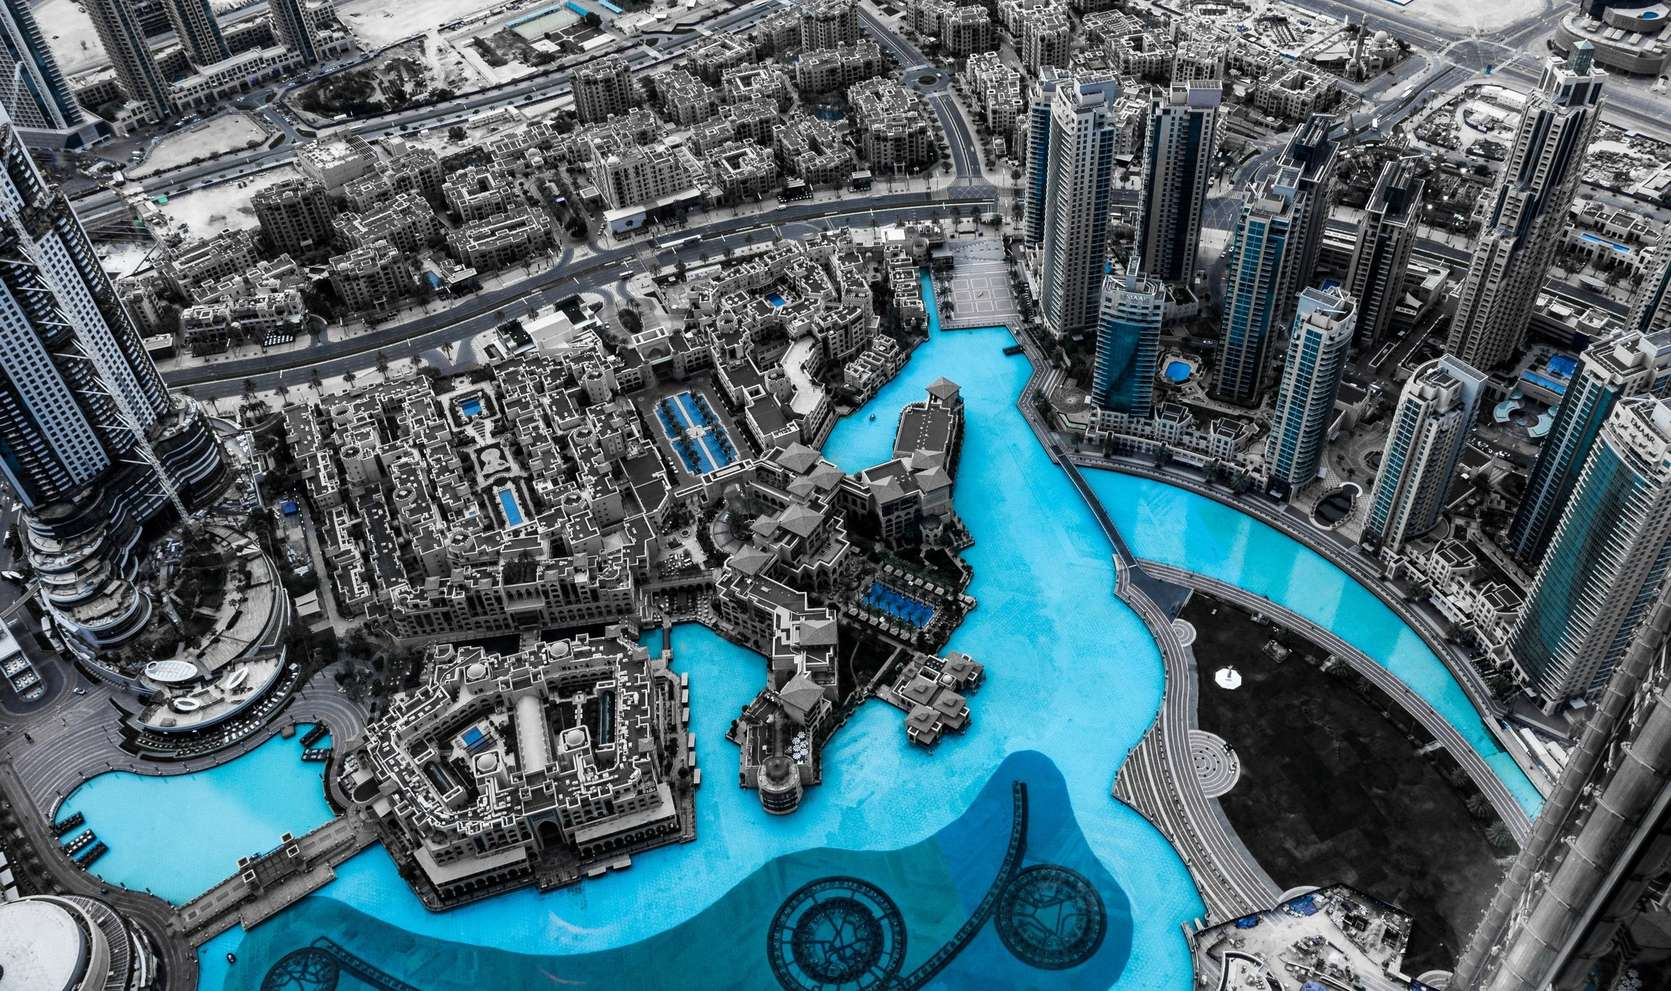
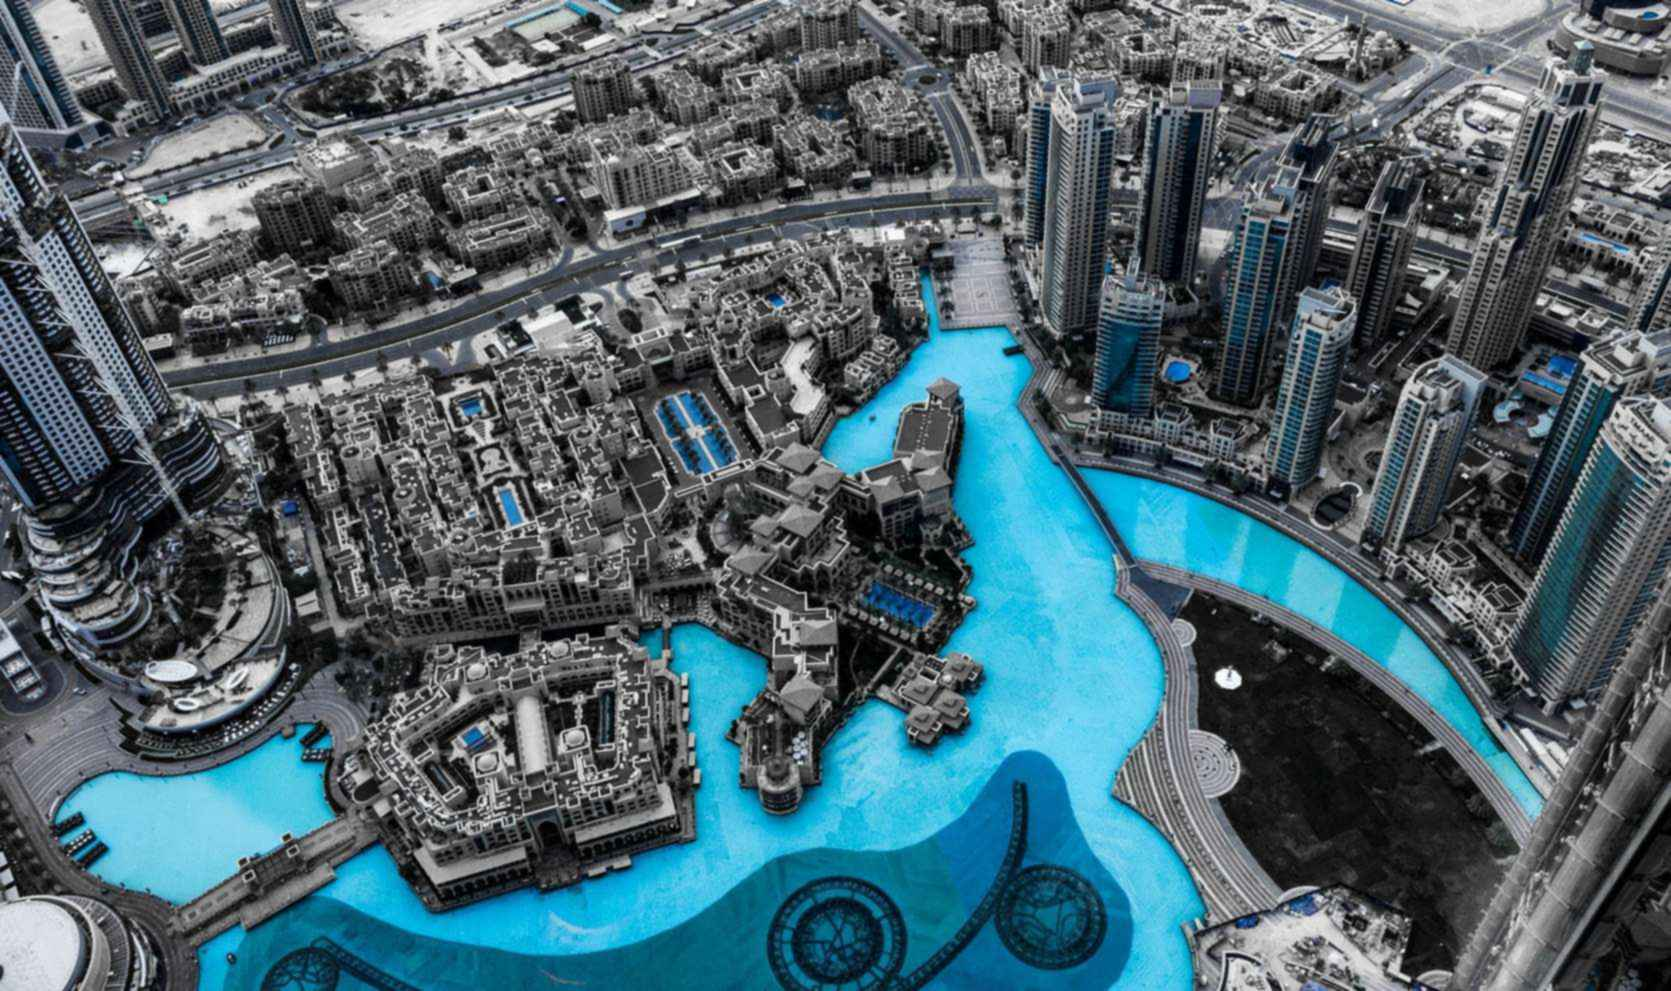
make photos smaller - update about_gary - remove data-science - add applications

diff --git a/categories/applications/index.html b/categories/applications/index.html
@@ -1,6 +1,5 @@
-<!DOCTYPE HTML>
 <html>
-
+<!-- Header -->
     <head>
 	<meta charset="utf-8" />
 	<meta http-equiv="X-UA-Compatible" content="IE=edge">
@@ -8,7 +7,7 @@
 	<meta name="description" content="Intelligent Autonomy">
 	<meta name="author" content="Gary Dalton">
 	<meta name="generator" content="Hugo 0.38.2" />
-	<title>Deep Learning &middot; Intellamech</title>
+	<title>Applications &middot; Intellamech</title>
 	<!-- Stylesheets -->
 	
 	<link rel="stylesheet" href="http://www.intellamech.com/css/main.css"/>
@@ -32,12 +31,13 @@
 	<script src="js/ie/html5shiv.jsrespond.min.js"></script>
 	<![endif]-->
 </head>
+
     <body>
 
     <!-- Wrapper -->
         <div id="wrapper">
 
-            <!-- Header -->
+        <!-- Header -->
     <header id="header" class="alt">
         <a href="http://www.intellamech.com" class="logo"><strong>Intellamech</strong> <span>Intelligent Autonomous Mechatronics</span></a>
         <nav>
@@ -72,28 +72,45 @@
     </nav>
 
         <!-- Main -->
-            <div id="main" class="alt">
+            <div id="main">
 
-                
-                    <section id="one">
-                        <div class="inner">
-                            <header class="major">
-                                <h1>Deep Learning</h1>
-                            </header>
+                <section id="banner" class="style2">
+                    <div class="inner">
+			
+                        <header class="major">
+                            <h1>Applications</h1>
+                        </header>
+                        <div class="content">
                             
-                            <p>Some words</p>
+                        </div>
+                    </div>
+                </section>
 
+                <section id="two" class="spotlights">
+                    
+                    <section>
+                        <a href="/posts/applications/" class="image">
+							<img src="/img/posts/" alt="" data-position="center center" />
+						</a>
+                        <div class="content">
+                            <div class="inner">
+                                <header class="major">
+                                    <h3>Applications</h3>
+                                </header>
+                                <p>Internet, Android, and hardware applications</p>
+                                <ul class="actions">
+                                    <li><a href="/posts/applications/" class="button">Learn more</a></li>
+                                </ul>
+                            </div>
                         </div>
                     </section>
-            <!-- Disqus Inject -->
-                
                     
-                
+                </section>
             </div>
             
         <!-- Footer -->
-            
-                <!-- Footer -->
+			
+				<!-- Footer -->
     <footer id="footer">
         <div class="inner">
             <ul class="icons">
@@ -119,6 +136,7 @@
     </footer>
 
             
+        
         </div>
 
     <!-- Scripts -->
@@ -145,6 +163,6 @@ ga('send', 'pageview');
 
 
     
-
+        
     </body>
 </html>

diff --git a/categories/index.html b/categories/index.html
@@ -53,7 +53,7 @@
             
                 <li><a href="http://www.intellamech.com/posts/deep">Deep Learning</a></li>
             
-                <li><a href="http://www.intellamech.com/posts/datascience">Data Science</a></li>
+                <li><a href="http://www.intellamech.com/posts/applications">Applications</a></li>
             
                 <li><a href="http://www.intellamech.com/posts/maker">Maker</a></li>
             
@@ -106,6 +106,23 @@
                     </section>
                     
                     <section>
+                        <a href="/categories/applications/" class="image">
+							<img src="/img/categories/" alt="" data-position="center center" />
+						</a>
+                        <div class="content">
+                            <div class="inner">
+                                <header class="major">
+                                    <h3>Applications</h3>
+                                </header>
+                                <p></p>
+                                <ul class="actions">
+                                    <li><a href="/categories/applications/" class="button">Learn more</a></li>
+                                </ul>
+                            </div>
+                        </div>
+                    </section>
+                    
+                    <section>
                         <a href="/categories/data-science/" class="image">
 							<img src="/img/categories/" alt="" data-position="center center" />
 						</a>
@@ -117,23 +134,6 @@
                                 <p></p>
                                 <ul class="actions">
                                     <li><a href="/categories/data-science/" class="button">Learn more</a></li>
-                                </ul>
-                            </div>
-                        </div>
-                    </section>
-                    
-                    <section>
-                        <a href="/categories/datascience/" class="image">
-							<img src="/img/categories/" alt="" data-position="center center" />
-						</a>
-                        <div class="content">
-                            <div class="inner">
-                                <header class="major">
-                                    <h3>Datascience</h3>
-                                </header>
-                                <p></p>
-                                <ul class="actions">
-                                    <li><a href="/categories/datascience/" class="button">Learn more</a></li>
                                 </ul>
                             </div>
                         </div>

diff --git a/index.html b/index.html
@@ -53,7 +53,7 @@
             
                 <li><a href="http://www.intellamech.com/posts/deep">Deep Learning</a></li>
             
-                <li><a href="http://www.intellamech.com/posts/datascience">Data Science</a></li>
+                <li><a href="http://www.intellamech.com/posts/applications">Applications</a></li>
             
                 <li><a href="http://www.intellamech.com/posts/maker">Maker</a></li>
             
@@ -95,11 +95,11 @@
         
         <article>
             <span class="image">
-                <img src="img/8516817076_8d941b84cb_o.png" alt="" />
+                <img src="img/8516817076_8d941b84cb_o.jpg" alt="" />
             </span>
             <header class="major">
                 <h3><a href="http://www.intellamech.com/posts/deep" class="link">Deep Learning</a></h3>
-                <p>Deep Learning</p>
+                <p>Deep Learning and Data Science</p>
             </header>
         </article>
         
@@ -108,8 +108,8 @@
                 <img src="img/pic02.jpg" alt="" />
             </span>
             <header class="major">
-                <h3><a href="http://www.intellamech.com/posts/datascience" class="link">Data Science</a></h3>
-                <p>Analysis of data and applications</p>
+                <h3><a href="http://www.intellamech.com/posts/applications" class="link">Applications</a></h3>
+                <p>Internet, Android, and hardware applications</p>
             </header>
         </article>
         
@@ -125,7 +125,7 @@
         
         <article>
             <span class="image">
-                <img src="img/8281120065_2b8c6b2b0b_o.png" alt="" />
+                <img src="img/8281120065_2b8c6b2b0b_o.jpg" alt="" />
             </span>
             <header class="major">
                 <h3><a href="http://www.intellamech.com/posts/other" class="link">Other</a></h3>
@@ -145,7 +145,7 @@
         
         <article>
             <span class="image">
-                <img src="img/chainsawm.png" alt="" />
+                <img src="img/chainsawm.jpg" alt="" />
             </span>
             <header class="major">
                 <h3><a href="http://www.intellamech.com/posts/about_gary" class="link">About</a></h3>

diff --git a/posts/about_gary/index.html b/posts/about_gary/index.html
@@ -53,7 +53,7 @@
             
                 <li><a href="http://www.intellamech.com/posts/deep">Deep Learning</a></li>
             
-                <li><a href="http://www.intellamech.com/posts/datascience">Data Science</a></li>
+                <li><a href="http://www.intellamech.com/posts/applications">Applications</a></li>
             
                 <li><a href="http://www.intellamech.com/posts/maker">Maker</a></li>
             
@@ -83,7 +83,22 @@
                             
                                 <span class="image main"><img src="/img/posts/https://avatars0.githubusercontent.com/u/7538298?v=3&amp;s=460" alt="" /></span>
                             
-                            <p>I have been coding for many years, mostly in the scientific programming arena. My currently preferred language is Python.</p>
+                            
+
+<h2 id="focus-on-implementing-secure-algorithmic-intelligence-to-create-value">Focus on implementing secure algorithmic intelligence to create value</h2>
+
+<p>I worked for many years as an ISP, and full spectrum application design consultant. During this time, I also got involved with some non-profit organizations and went on to leadership positions in them. Since 2015, I have wound down my involvement in the non-profit world, slowly divested ISP services, and vastly improved my machine learning, computer vision, and mechatronic control skills. It is time to take things to the next level.</p>
+
+<p>Specialties:</p>
+
+<ul>
+<li>Machine Learning and Deep Learning</li>
+<li>Adding intelligence, decision, and action to devices</li>
+<li>Cloud Computing / Utility Computing</li>
+<li>IoT devices and applications</li>
+<li>Big data analytics</li>
+<li>Python / Kotlin</li>
+</ul>
 
 <p><img src="https://avatars0.githubusercontent.com/u/7538298?v=3&amp;s=460" alt="" /></p>
 

diff --git a/posts/index.html b/posts/index.html
@@ -53,7 +53,7 @@
             
                 <li><a href="http://www.intellamech.com/posts/deep">Deep Learning</a></li>
             
-                <li><a href="http://www.intellamech.com/posts/datascience">Data Science</a></li>
+                <li><a href="http://www.intellamech.com/posts/applications">Applications</a></li>
             
                 <li><a href="http://www.intellamech.com/posts/maker">Maker</a></li>
             
@@ -144,17 +144,17 @@
                     </section>
                     
                     <section>
-                        <a href="/posts/datascience/" class="image">
+                        <a href="/posts/applications/" class="image">
 							<img src="/img/posts/" alt="" data-position="center center" />
 						</a>
                         <div class="content">
                             <div class="inner">
                                 <header class="major">
-                                    <h3>Data Science</h3>
+                                    <h3>Applications</h3>
                                 </header>
-                                <p></p>
+                                <p>Internet, Android, and hardware applications</p>
                                 <ul class="actions">
-                                    <li><a href="/posts/datascience/" class="button">Learn more</a></li>
+                                    <li><a href="/posts/applications/" class="button">Learn more</a></li>
                                 </ul>
                             </div>
                         </div>

diff --git a/posts/applications/index.html b/posts/applications/index.html
@@ -8,7 +8,7 @@
 	<meta name="description" content="Intelligent Autonomy">
 	<meta name="author" content="Gary Dalton">
 	<meta name="generator" content="Hugo 0.38.2" />
-	<title>Deep Learning &middot; Intellamech</title>
+	<title>Applications &middot; Intellamech</title>
 	<!-- Stylesheets -->
 	
 	<link rel="stylesheet" href="http://www.intellamech.com/css/main.css"/>
@@ -78,7 +78,7 @@
                     <section id="one">
                         <div class="inner">
                             <header class="major">
-                                <h1>Deep Learning</h1>
+                                <h1>Applications</h1>
                             </header>
                             
                             <p>Some words</p>

diff --git a/404.html b/404.html
@@ -54,7 +54,7 @@
             
                 <li><a href="http://www.intellamech.com/posts/deep">Deep Learning</a></li>
             
-                <li><a href="http://www.intellamech.com/posts/datascience">Data Science</a></li>
+                <li><a href="http://www.intellamech.com/posts/applications">Applications</a></li>
             
                 <li><a href="http://www.intellamech.com/posts/maker">Maker</a></li>
             

diff --git a/blogs/deep_vs_science/index.html b/blogs/deep_vs_science/index.html
@@ -53,7 +53,7 @@
             
                 <li><a href="http://www.intellamech.com/posts/deep">Deep Learning</a></li>
             
-                <li><a href="http://www.intellamech.com/posts/datascience">Data Science</a></li>
+                <li><a href="http://www.intellamech.com/posts/applications">Applications</a></li>
             
                 <li><a href="http://www.intellamech.com/posts/maker">Maker</a></li>
             

diff --git a/blogs/index.html b/blogs/index.html
@@ -53,7 +53,7 @@
             
                 <li><a href="http://www.intellamech.com/posts/deep">Deep Learning</a></li>
             
-                <li><a href="http://www.intellamech.com/posts/datascience">Data Science</a></li>
+                <li><a href="http://www.intellamech.com/posts/applications">Applications</a></li>
             
                 <li><a href="http://www.intellamech.com/posts/maker">Maker</a></li>
             

diff --git a/categories/data-science/index.html b/categories/data-science/index.html
@@ -53,7 +53,7 @@
             
                 <li><a href="http://www.intellamech.com/posts/deep">Deep Learning</a></li>
             
-                <li><a href="http://www.intellamech.com/posts/datascience">Data Science</a></li>
+                <li><a href="http://www.intellamech.com/posts/applications">Applications</a></li>
             
                 <li><a href="http://www.intellamech.com/posts/maker">Maker</a></li>
             

diff --git a/categories/deep-learning/index.html b/categories/deep-learning/index.html
@@ -53,7 +53,7 @@
             
                 <li><a href="http://www.intellamech.com/posts/deep">Deep Learning</a></li>
             
-                <li><a href="http://www.intellamech.com/posts/datascience">Data Science</a></li>
+                <li><a href="http://www.intellamech.com/posts/applications">Applications</a></li>
             
                 <li><a href="http://www.intellamech.com/posts/maker">Maker</a></li>
             

diff --git a/categories/deep/index.html b/categories/deep/index.html
@@ -53,7 +53,7 @@
             
                 <li><a href="http://www.intellamech.com/posts/deep">Deep Learning</a></li>
             
-                <li><a href="http://www.intellamech.com/posts/datascience">Data Science</a></li>
+                <li><a href="http://www.intellamech.com/posts/applications">Applications</a></li>
             
                 <li><a href="http://www.intellamech.com/posts/maker">Maker</a></li>
             
